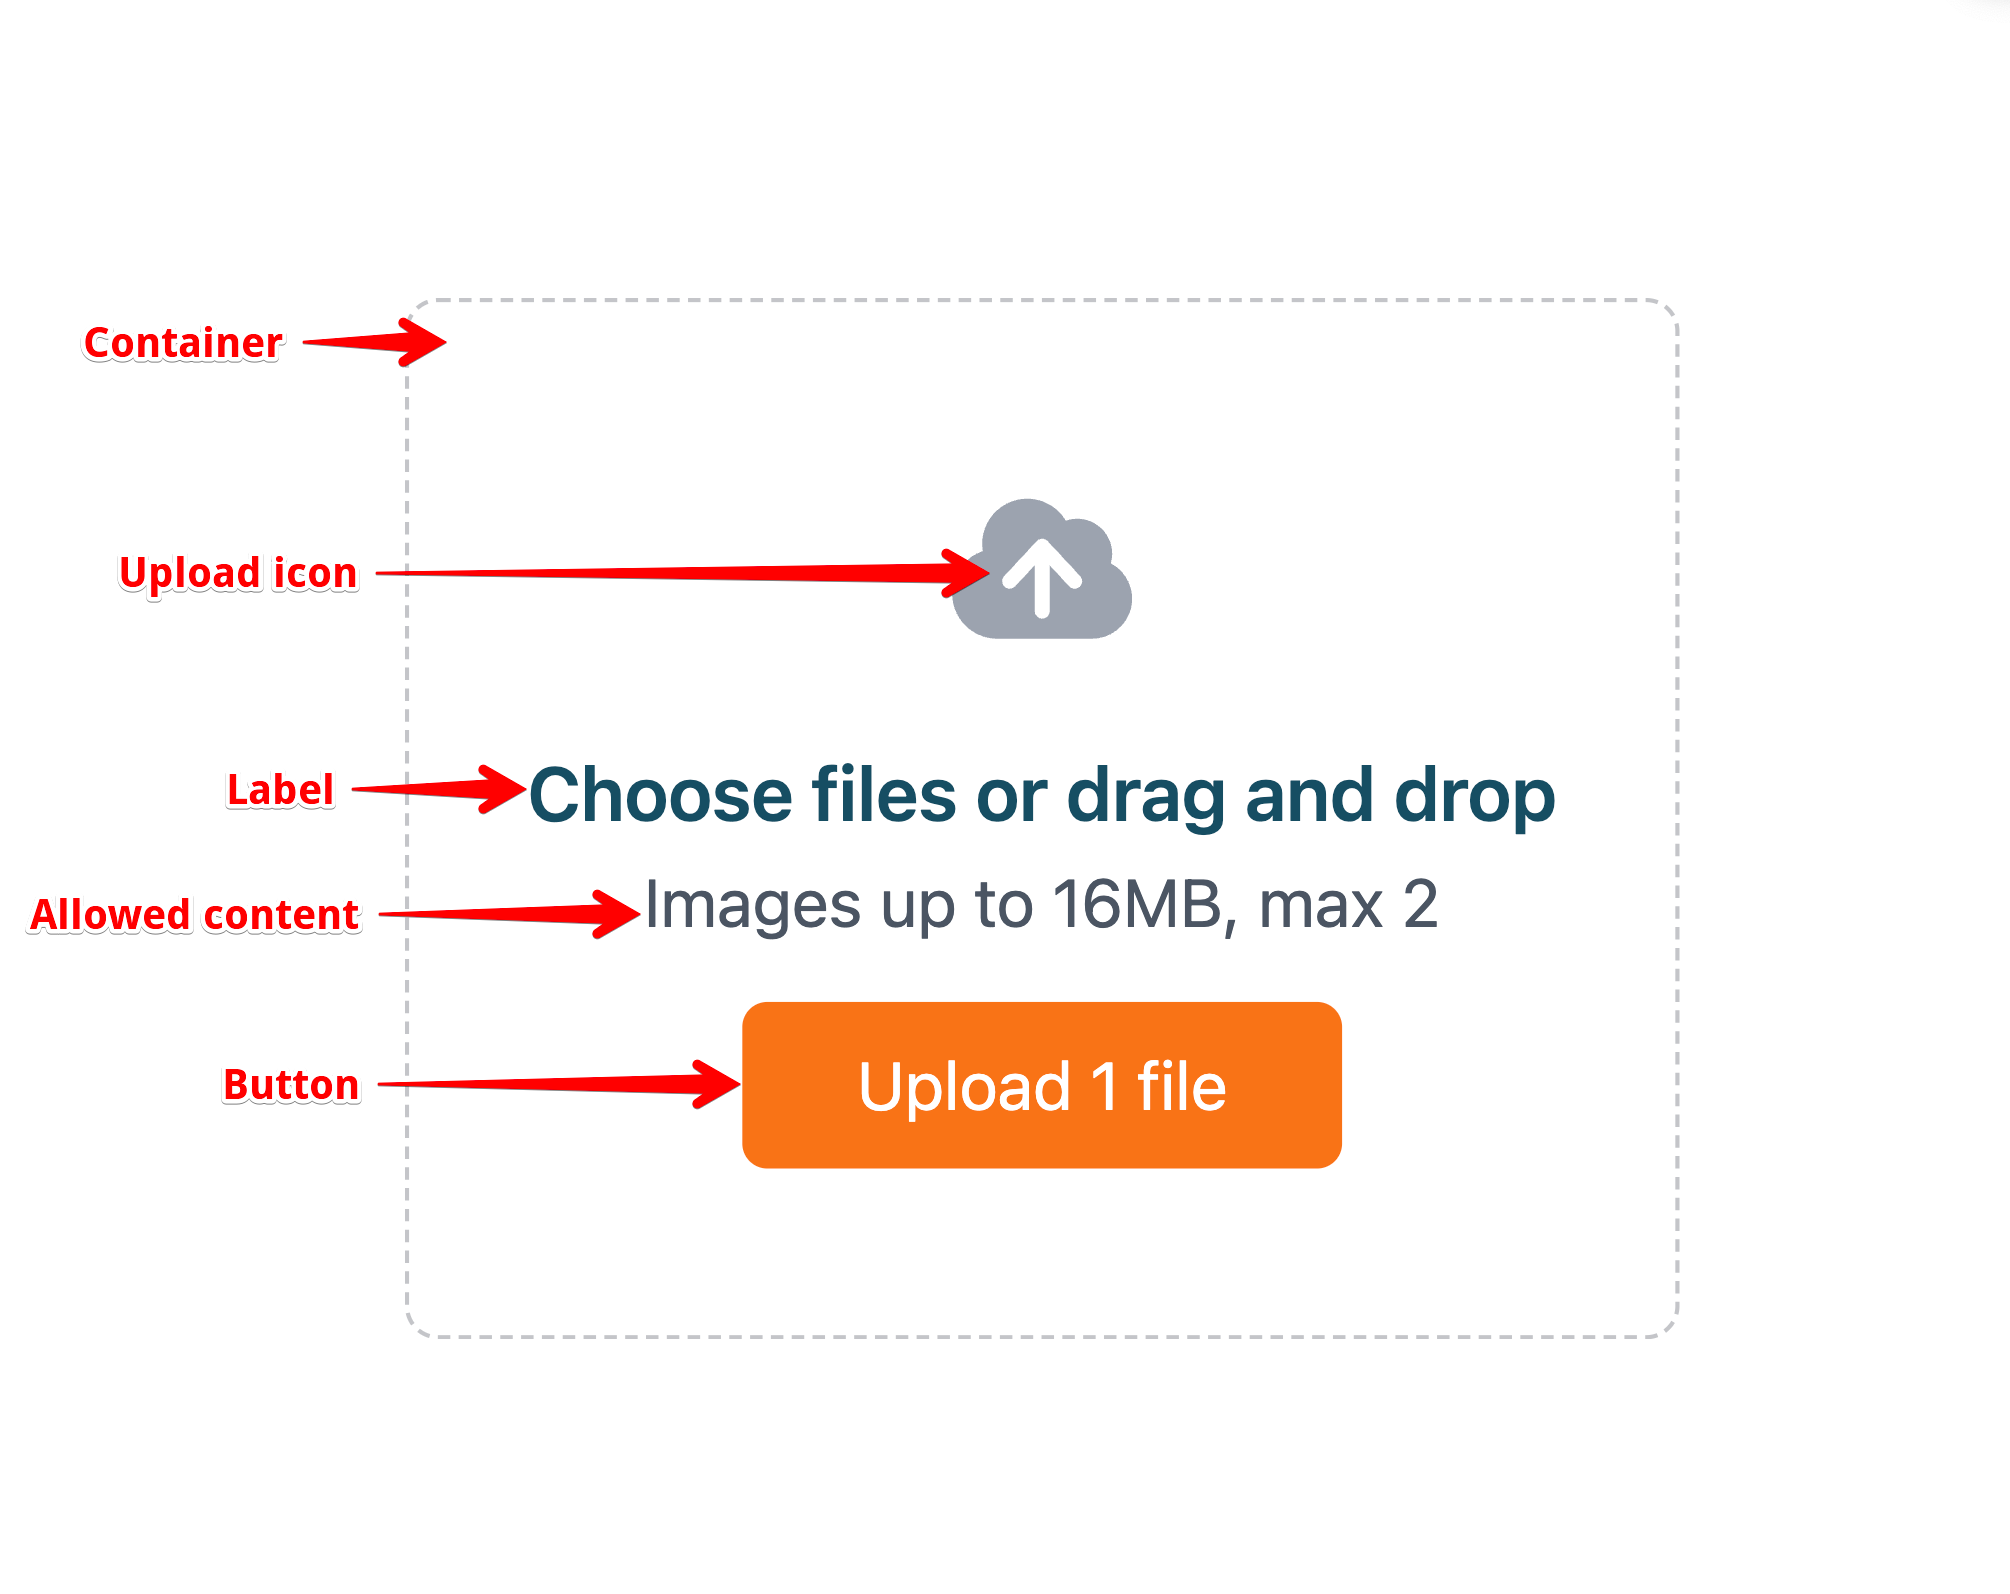
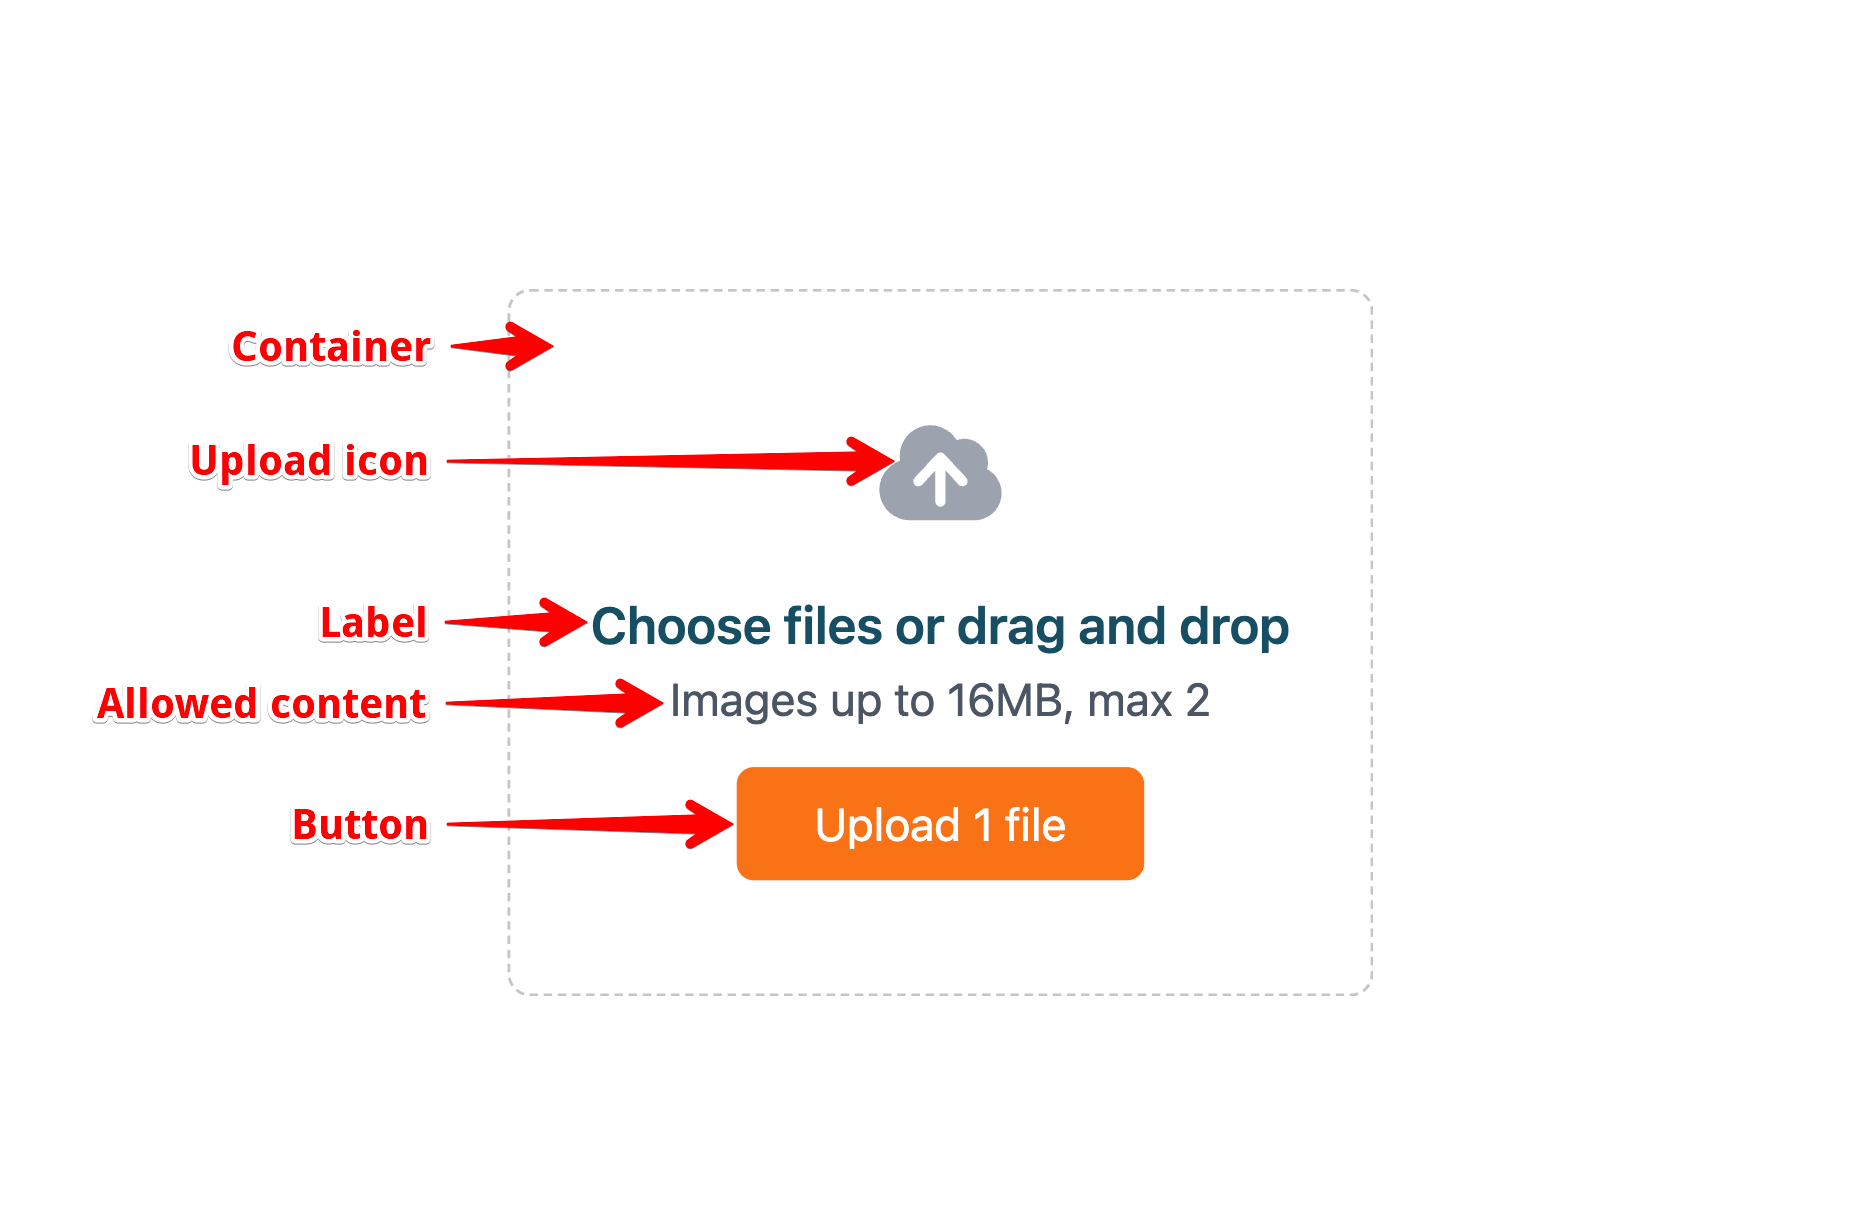
Custom styling
- Now image about drop zone anatomy has consistent alignment of titles
- Fixed inconsistent spacings of buttons

diff --git a/docs/src/globals.css b/docs/src/globals.css
@@ -36,6 +36,7 @@
   /* applied to container */
 .custom-container {
   background-color: none;
+  margin-top: 1rem;
   }
    
   /* applied to container when readying */
